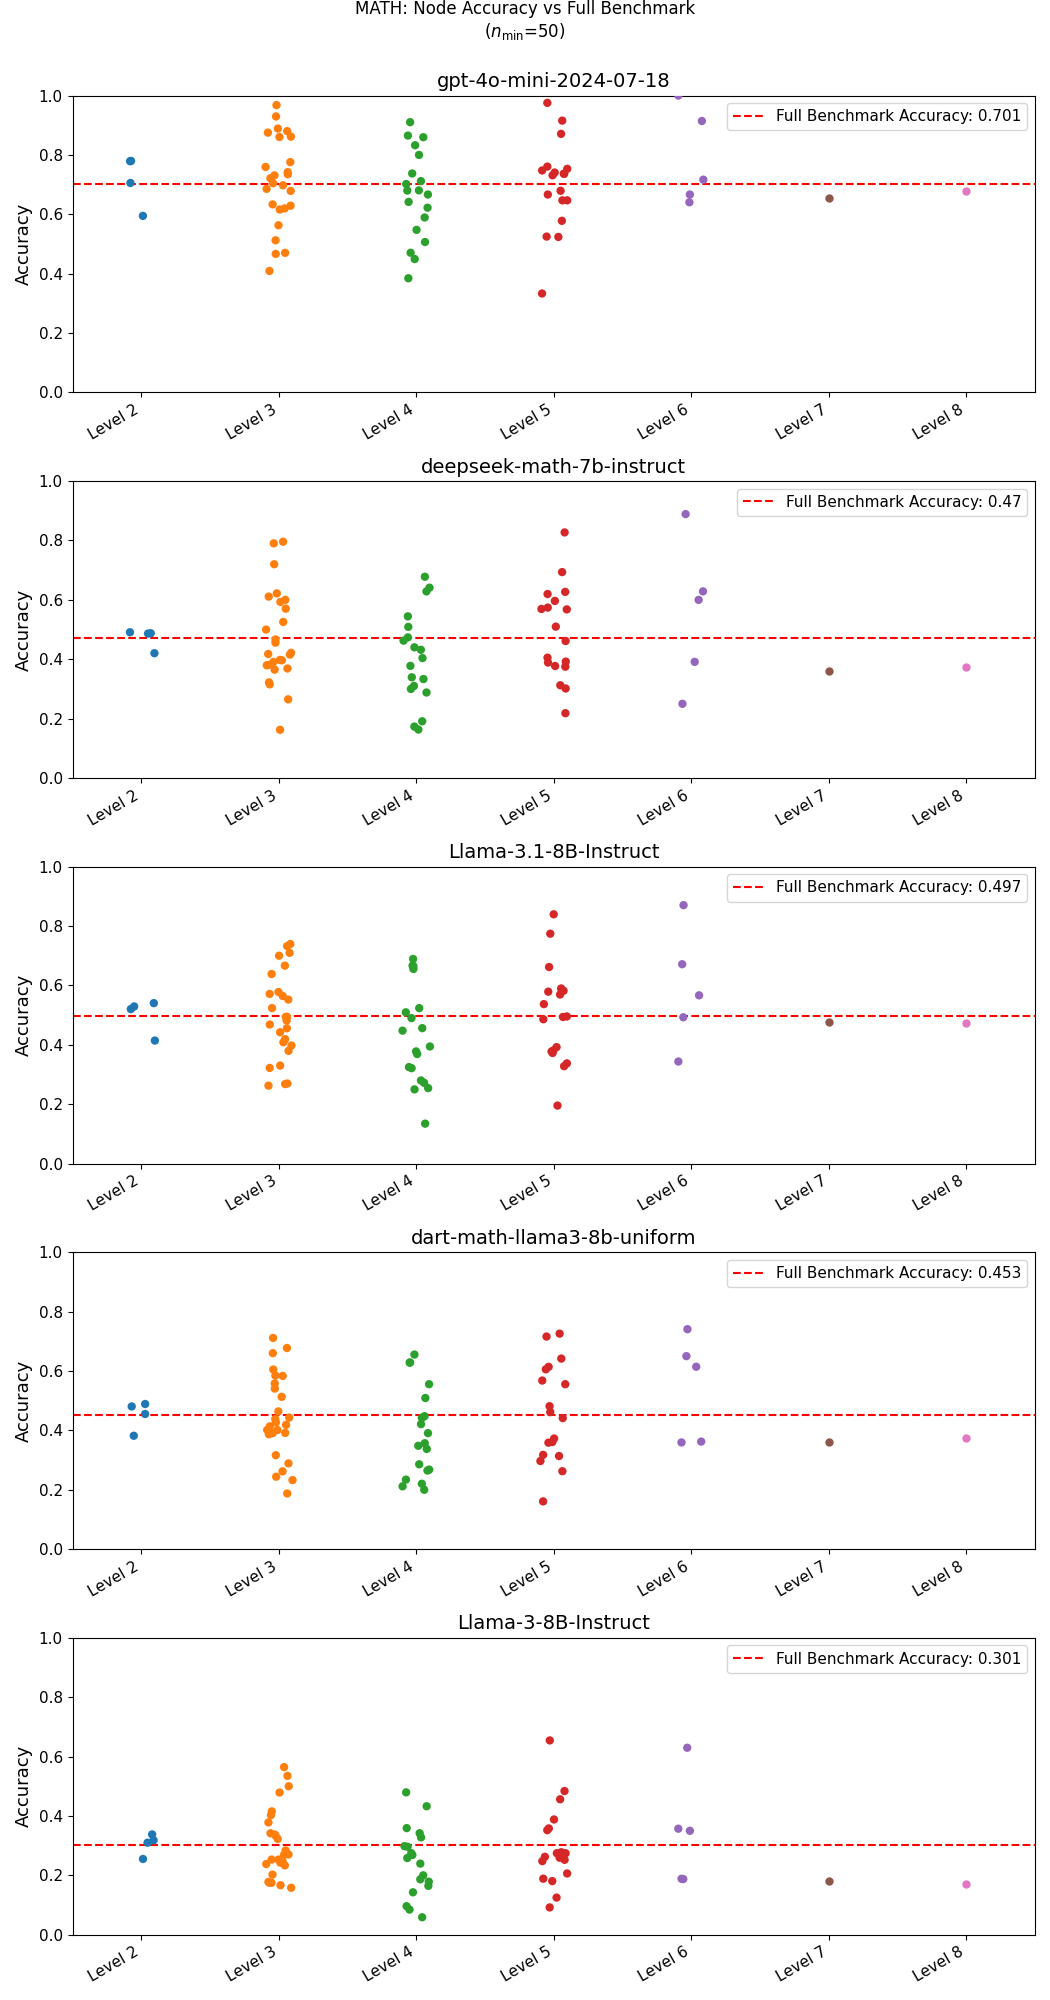
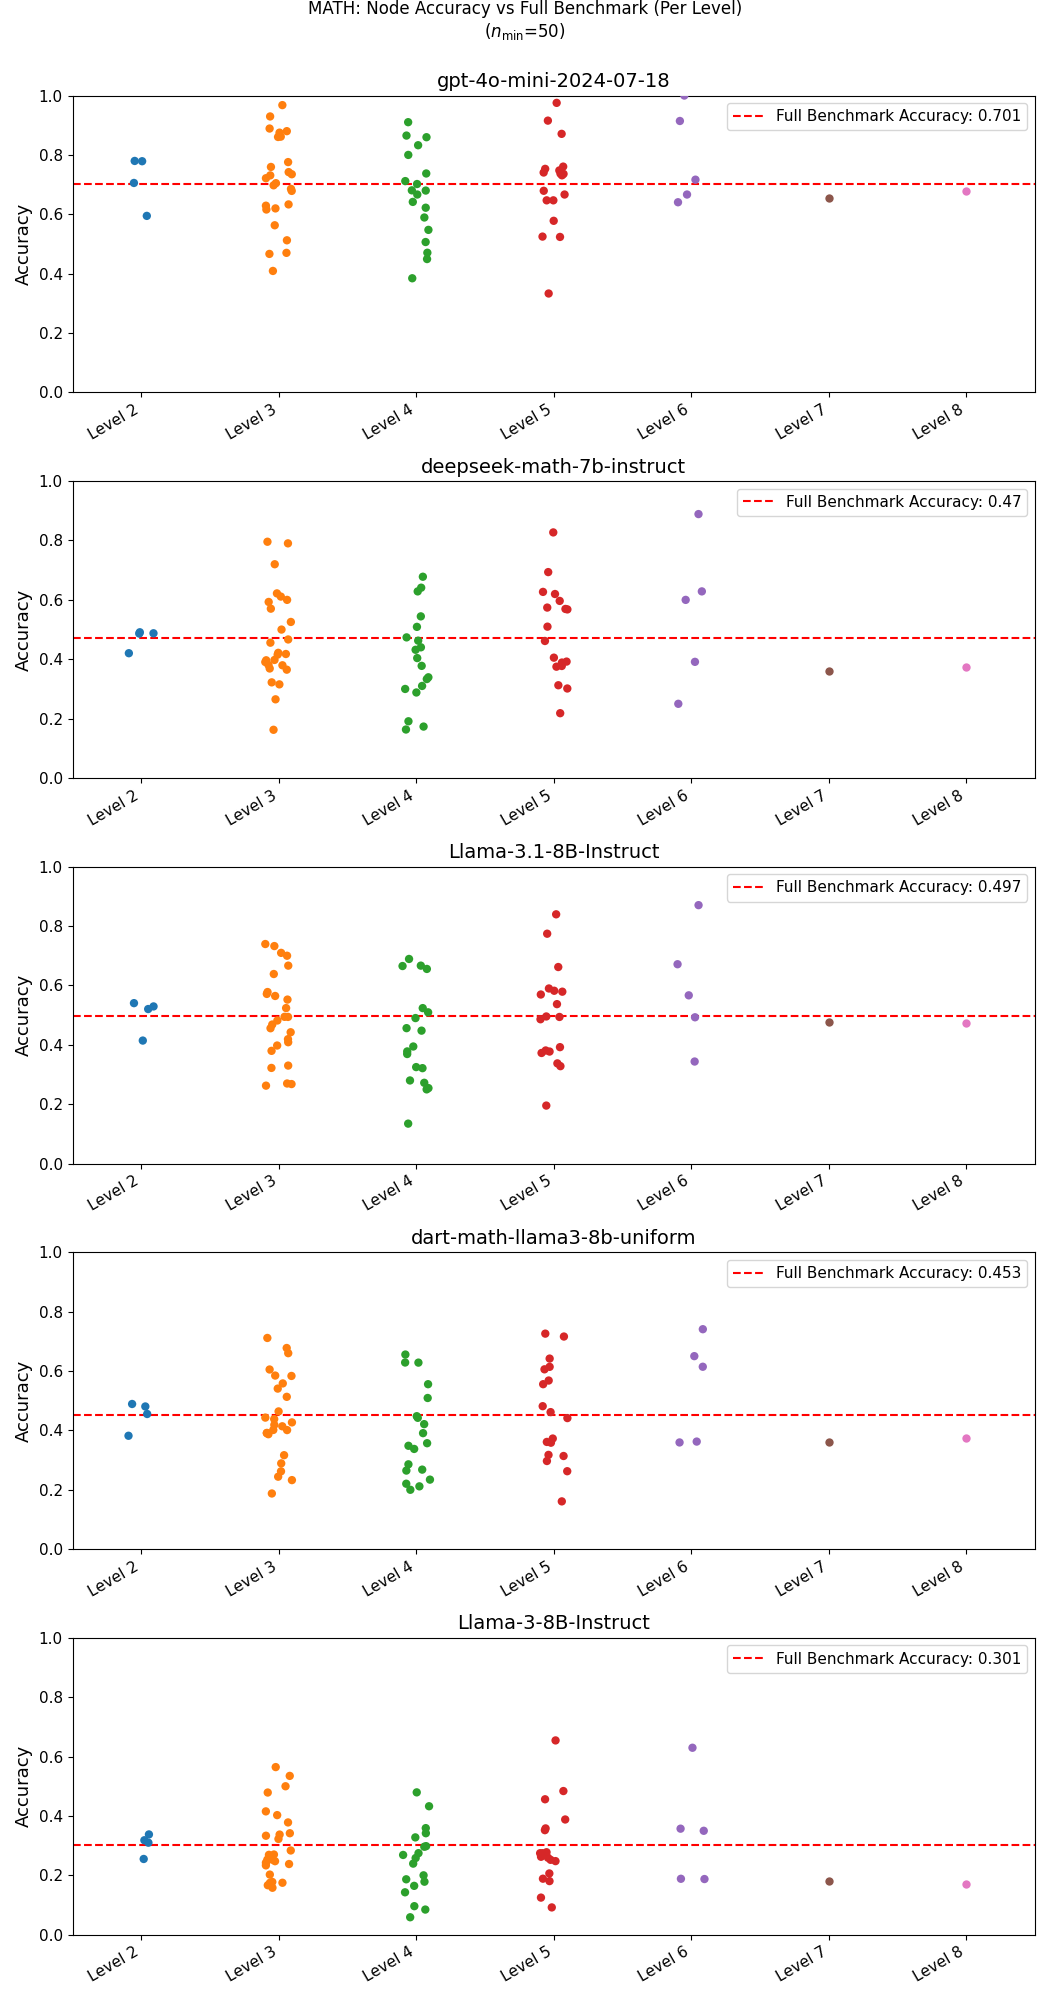
Refactored intra subset analysis script

diff --git a/scripts/intra_subset_analysis.py b/scripts/intra_subset_analysis.py
@@ -3,7 +3,6 @@ from pathlib import Path
 import matplotlib.pyplot as plt
 import numpy as np
 import pandas as pd
-import seaborn as sns
 from scipy.stats import kendalltau
 from tqdm import tqdm
 
@@ -47,7 +46,7 @@ def split_halves_analysis(
         ``["subset", "mean_kendall_tau", "std_kendall_tau", "num_instances"]``.
     """
     tqdm_kwargs = {
-        "desc": "Computing split-halves Kendall's Taus",
+        "desc": "Computing split-halves Kendall's taus",
         "total": len(subsets),
         "unit": dataset.plural,
     }
@@ -113,10 +112,10 @@ def plot_split_halves_histogram(
     """
     data = df["mean_kendall_tau"]
     xlabel = r"Kendall's $\tau$"
-    ylabel = f"{dataset.subset_col.capitalize()} Count"
+    ylabel = f"Number of {dataset.plural.capitalize()}"
     title = (
-        f"{dataset.pretty_name}: Split-Halves Kendall's Tau Across {dataset.plural.capitalize()}"
-        f"\n({num_models} models, {num_subsets} {dataset.plural}, {num_instances} instances, {num_trials} trials)"
+        f"{dataset.pretty_name}: {dataset.subset_col.title()} Internal Agreement (Split-Halves {xlabel})"
+        f"\n({num_models} models, {num_subsets} {dataset.plural}, {num_trials} trials)"
     )
     mean = data.mean()
     std = data.std()
@@ -126,7 +125,6 @@ def plot_split_halves_histogram(
         Dataset.MATH: (0, num_subsets),
         Dataset.MMLU: (0, num_subsets // 2),
     }[dataset]
-    color = sns.color_palette("tab10")[0]
 
     return plot_histogram(
         data,
@@ -138,7 +136,6 @@ def plot_split_halves_histogram(
         std=std,
         xlim=xlim,
         ylim=ylim,
-        color=color,
     )
 
 
@@ -170,7 +167,7 @@ def bootstrap_analysis(
         ``["subset", "mean_kendall_tau", "std_kendall_tau", "num_instances"]``.
     """
     tqdm_kwargs = {
-        "desc": "Computing bootstrapped Kendall's Taus",
+        "desc": "Computing bootstrapped Kendall's taus",
         "total": len(subsets),
         "unit": dataset.plural,
     }
@@ -234,10 +231,10 @@ def plot_bootstrap_histogram(
     """
     data = df["mean_kendall_tau"]
     xlabel = r"Kendall's $\tau$"
-    ylabel = f"{dataset.subset_col.capitalize()} Count"
+    ylabel = f"Number of {dataset.plural.capitalize()}"
     title = (
-        f"{dataset.pretty_name}: Bootstrapped Kendall's Tau Across {dataset.plural.capitalize()}"
-        f"\n({num_models} models, {num_subsets} {dataset.plural}, {num_instances} instances, {num_trials} trials)"
+        f"{dataset.pretty_name}: {dataset.subset_col.title()} Internal Agreement (Bootstrapped {xlabel})"
+        f"\n({num_models} models, {num_subsets} {dataset.plural}, {num_trials} trials)"
     )
     mean = data.mean()
     std = data.std()
@@ -247,7 +244,6 @@ def plot_bootstrap_histogram(
         Dataset.MATH: (0, num_subsets),
         Dataset.MMLU: (0, num_subsets),
     }[dataset]
-    color = sns.color_palette("tab10")[1]
 
     return plot_histogram(
         data,
@@ -259,7 +255,6 @@ def plot_bootstrap_histogram(
         std=std,
         xlim=xlim,
         ylim=ylim,
-        color=color,
     )
 
 
@@ -293,7 +288,7 @@ def minibatch_w_analysis(
         ``["subset", "mean_kendallw", "std_kendallw", "num_instances"]``.
     """
     tqdm_kwargs = {
-        "desc": "Computing mini-batch Kendall's W",
+        "desc": "Computing mini-batch Kendall's Ws",
         "total": len(subsets),
         "unit": dataset.plural,
     }
@@ -362,9 +357,9 @@ def plot_minibatch_w_histogram(
     """
     data = df["mean_kendallw"]
     xlabel = "Kendall's W"
-    ylabel = f"{dataset.subset_col.capitalize()} Count"
+    ylabel = f"Number of {dataset.plural.capitalize()}"
     title = (
-        f"{dataset.pretty_name}: Mini-Batch Kendall's W Across {dataset.plural.capitalize()}"
+        f"{dataset.pretty_name}: {dataset.subset_col.title()} Internal Agreement (Mini-Batch Kendall's W)"
         f"\n({num_models} models, {num_subsets} {dataset.plural}, {num_instances} instances, {num_trials} trials, {num_folds} folds)"
     )
     mean = data.mean()
@@ -375,7 +370,6 @@ def plot_minibatch_w_histogram(
         Dataset.MATH: (0, num_subsets),
         Dataset.MMLU: (0, num_subsets),
     }[dataset]
-    color = sns.color_palette("tab10")[2]
 
     return plot_histogram(
         data,
@@ -387,7 +381,6 @@ def plot_minibatch_w_histogram(
         std=std,
         xlim=xlim,
         ylim=ylim,
-        color=color,
     )
 
 
@@ -420,41 +413,41 @@ def main(dataset: Dataset, experiment: str, num_trials: int, num_folds: int) -> 
     )
 
     split_halves_df = split_halves_analysis(**shared)
-    data_name = f"split-halves_internal-agreement_num-trials={num_trials}"
+    data_name = f"split-halves_internal-agreement_num-models={num_models}_num-trials={num_trials}"
     data_path = build_data_path(dataset, experiment, data_name)
     split_halves_df.to_csv(data_path, index=False)
     print(f"Saved data to {data_path}")
 
     split_halves_fig = plot_split_halves_histogram(split_halves_df, **shared)
-    plot_name = f"split-halves_internal-agreement_histogram_num-trials={num_trials}"
+    plot_name = f"split-halves_internal-agreement_histogram_num-models={num_models}_num-trials={num_trials}"
     plot_path = build_plot_path(dataset, experiment, plot_name)
     split_halves_fig.savefig(plot_path)
     plt.close(split_halves_fig)
     print(f"Saved plot to {plot_path}")
 
     bootstrap_df = bootstrap_analysis(**shared)
-    data_name = f"bootstrap_internal-agreement_num-trials={num_trials}"
+    data_name = (
+        f"bootstrap_internal-agreement_num-models={num_models}_num-trials={num_trials}"
+    )
     data_path = build_data_path(dataset, experiment, data_name)
     bootstrap_df.to_csv(data_path, index=False)
     print(f"Saved data to {data_path}")
 
     bootstrap_fig = plot_bootstrap_histogram(bootstrap_df, **shared)
-    plot_name = f"bootstrap_internal-agreement_histogram_num-trials={num_trials}"
+    plot_name = f"bootstrap_internal-agreement_histogram_num-models={num_models}_num-trials={num_trials}"
     plot_path = build_plot_path(dataset, experiment, plot_name)
     bootstrap_fig.savefig(plot_path)
     plt.close(bootstrap_fig)
     print(f"Saved plot to {plot_path}")
 
     minibatch_w_df = minibatch_w_analysis(**shared)
-    data_name = (
-        f"mini-batch_internal-agreement_num-folds={num_folds}_num-trials={num_trials}"
-    )
+    data_name = f"mini-batch_internal-agreement_num-models={num_models}_num-folds={num_folds}_num-trials={num_trials}"
     data_path = build_data_path(dataset, experiment, data_name)
     minibatch_w_df.to_csv(data_path, index=False)
     print(f"Saved data to {data_path}")
 
     minibatch_w_fig = plot_minibatch_w_histogram(minibatch_w_df, **shared)
-    plot_name = f"mini-batch_internal-agreement_histogram_num-folds={num_folds}_num-trials={num_trials}"
+    plot_name = f"mini-batch_internal-agreement_histogram_num-models={num_models}_num-folds={num_folds}_num-trials={num_trials}"
     plot_path = build_plot_path(dataset, experiment, plot_name)
     minibatch_w_fig.savefig(plot_path)
     plt.close(minibatch_w_fig)

diff --git a/scripts/inter_node_analysis.py b/scripts/inter_node_analysis.py
@@ -98,7 +98,7 @@ def plot_all_nodes_external_agreement_histogram(
     min_instance_label = r"$n_{\mathrm{min}}$"
     ylabel = "Number of Nodes"
     title = (
-        f"{dataset.pretty_name}: Node Agreement with Full Benchmark"
+        f"{dataset.pretty_name}: Node Agreement with Full Benchmark (All Nodes)"
         f"\n({num_models} models, {num_nodes} nodes, {min_instance_label}={min_instances})"
     )
     annotate = True
@@ -154,7 +154,7 @@ def plot_per_level_external_agreement_strip_plot(
     ylabel = r"Kendall's $\tau$"
     min_instance_label = r"$n_{\mathrm{min}}$"
     title = (
-        f"{dataset.pretty_name}: Node Agreement with Full Benchmark"
+        f"{dataset.pretty_name}: Node Agreement with Full Benchmark (Per Level)"
         f"\n({num_models} models, {min_instance_label}={min_instances})"
     )
     hue = "level"
@@ -262,7 +262,7 @@ def plot_all_nodes_performance_strip_plot(
     ylabel = dataset.metric.title()
     min_instance_label = r"$n_{\mathrm{min}}$"
     title = (
-        f"{dataset.pretty_name}: Node {dataset.metric.title()} vs Full Benchmark"
+        f"{dataset.pretty_name}: Node {dataset.metric.title()} vs Full Benchmark (All Nodes)"
         f"\n({num_nodes} nodes, {min_instance_label}={min_instances})"
     )
     hue = "model"
@@ -386,7 +386,7 @@ def plot_per_level_performance_strip_plot(
         )
 
     plt.suptitle(
-        f"{dataset.pretty_name}: Node {dataset.metric.title()} vs Full Benchmark"
+        f"{dataset.pretty_name}: Node {dataset.metric.title()} vs Full Benchmark (Per Level)"
         f"\n({min_instance_label}={min_instances})",
         y=1.0,
     )
